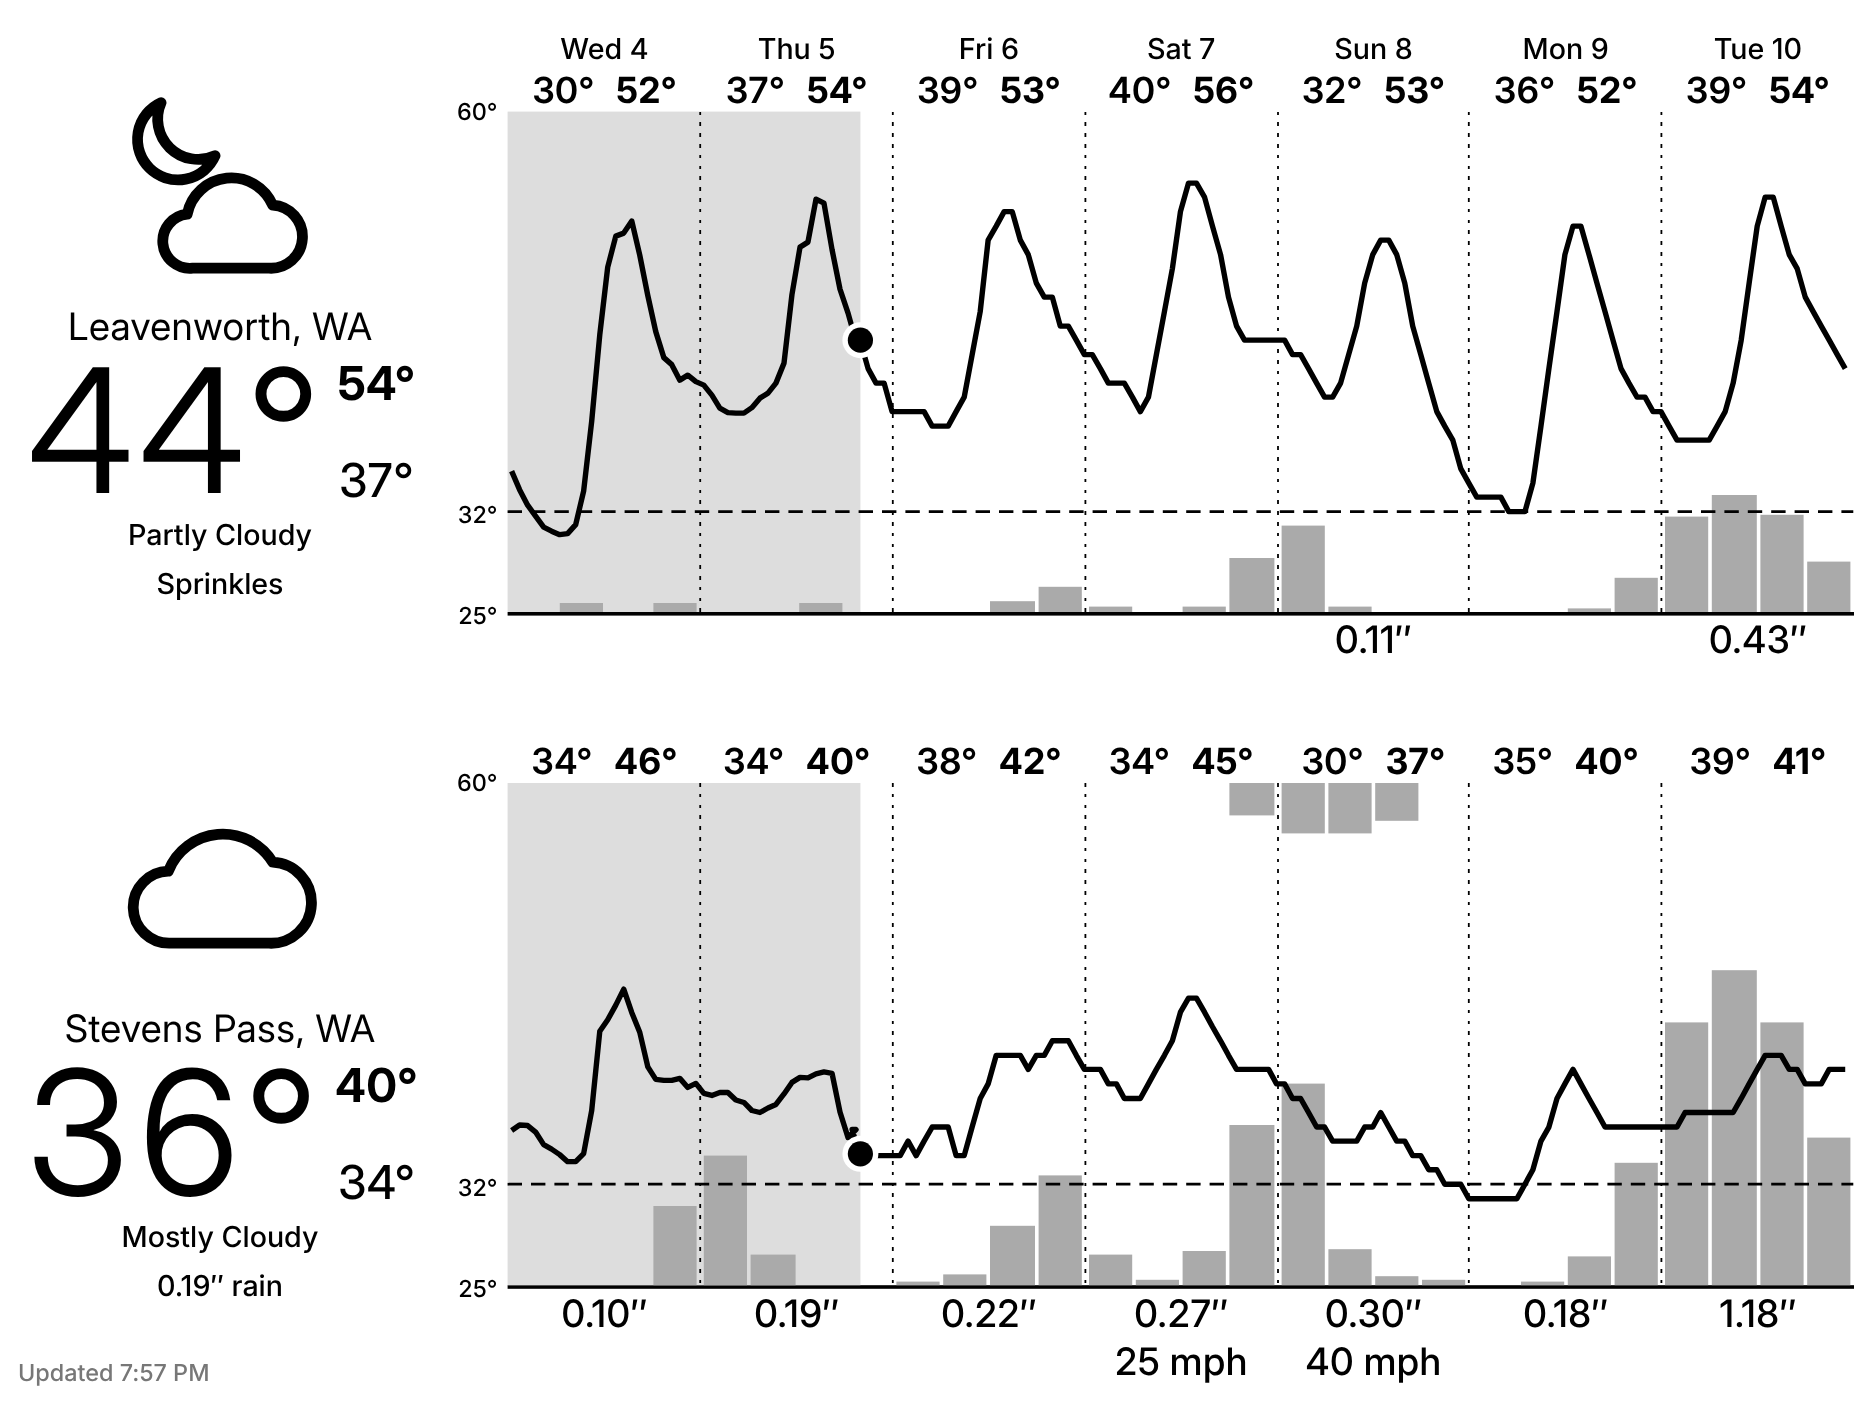
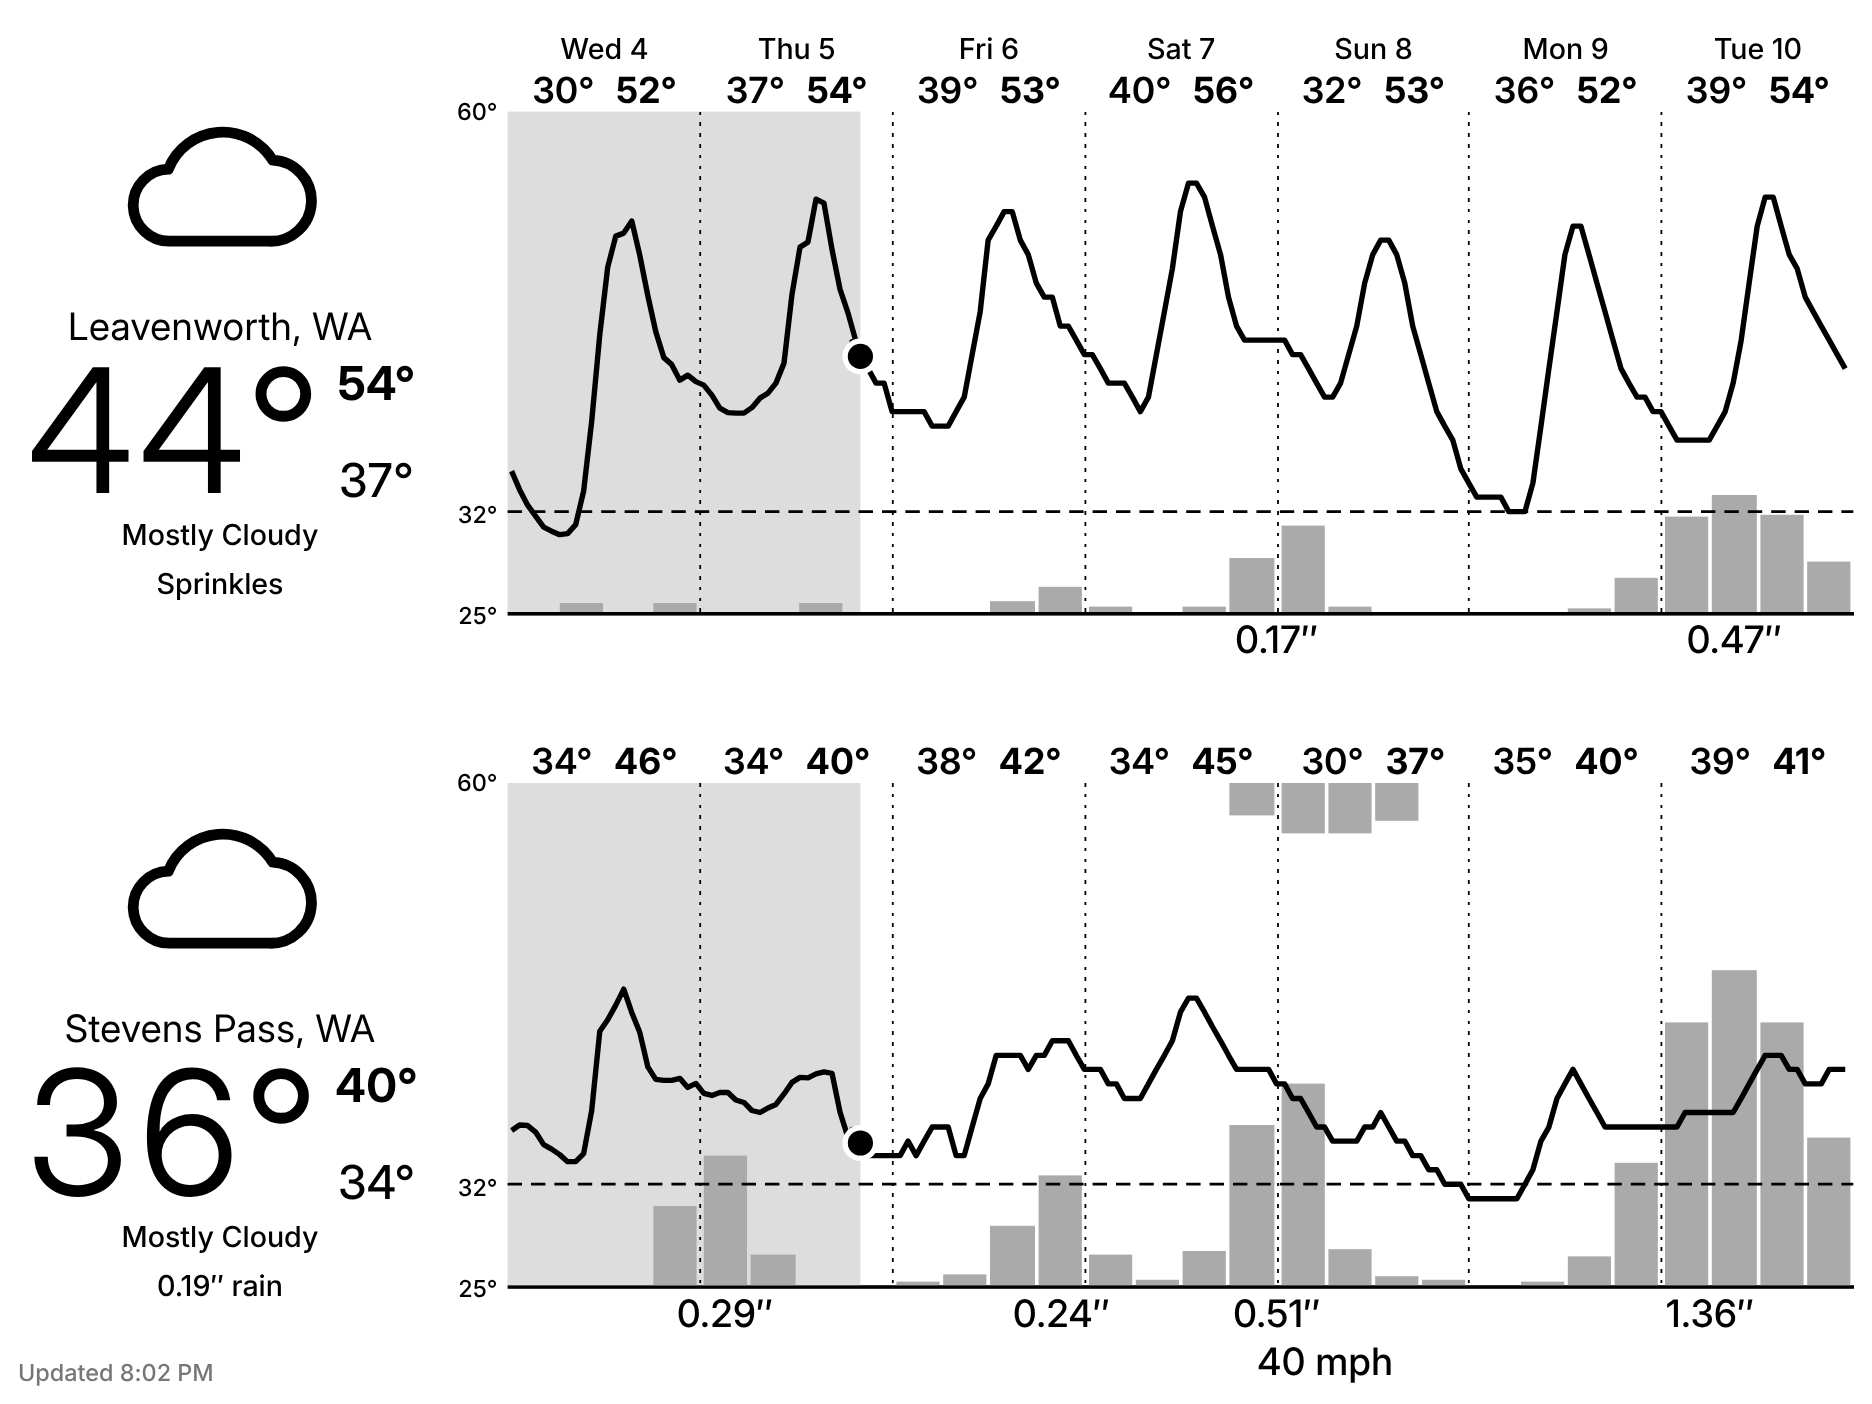
Label storms and windy spells instead of days
Runs of 6-hour blocks with at least 0.02" of rain (0.2" of snow) form a storm,
labeled with its totals and centered under it; runs of gusts of 25 mph or more
get their peak gust the same way.

Claude-Session: https://claude.ai/code/session_018zBtTfGxqR6ysBZYHYeVbJ

diff --git a/server/forecast/glance_test.go b/server/forecast/glance_test.go
@@ -331,9 +331,6 @@ func TestBuildChartRainAndSnow(t *testing.T) {
 		len(days[2].Amounts) != 0 {
 		t.Errorf("amounts = %q / %q / %q", days[0].Amounts, days[1].Amounts, days[2].Amounts)
 	}
-	if !reflect.DeepEqual(days[0].Totals, []string{"0.50″"}) || !reflect.DeepEqual(days[1].Totals, []string{"2.0″"}) {
-		t.Errorf("totals = %q / %q", days[0].Totals, days[1].Totals)
-	}
 	if c.TempMin != 20 || c.TempMax != 45 || c.FreezeY == nil || c.Label != "Snow 2.0″ · Rain 0.50″" {
 		t.Errorf("scale %d-%d freeze %v label %q", c.TempMin, c.TempMax, c.FreezeY, c.Label)
 	}
@@ -751,26 +748,6 @@ func TestSnowNeedsTwoStations(t *testing.T) {
 	}
 }
 
-func TestTotalsSkipLightAmounts(t *testing.T) {
-	loc, _ := time.LoadLocation("America/Los_Angeles")
-	now := time.Date(2026, 11, 2, 6, 0, 0, 0, loc)
-	grid := GridData{}
-	add := func(series *GridSeries, h int, v float64) {
-		series.Values = append(series.Values, struct {
-			ValidTime string   `json:"validTime"`
-			Value     *float64 `json:"value"`
-		}{time.Date(2026, 11, 2, h, 0, 0, 0, loc).Format(time.RFC3339) + "/PT6H", &v})
-	}
-	add(&grid.Properties.QuantitativePrecipitation, 0, 1.0)  // 0.04″: sprinkles
-	add(&grid.Properties.QuantitativePrecipitation, 24, 5.0) // 0.20″
-	days := make([]Day, 2)
-	buildChart(&grid, days, loc, now, "us", "auto", nil, nil, 0)
-	if len(days[0].Totals) != 0 || !reflect.DeepEqual(days[0].Amounts, []string{"Sprinkles"}) ||
-		!reflect.DeepEqual(days[1].Totals, []string{"0.20″"}) {
-		t.Errorf("days = %+v", days)
-	}
-}
-
 func TestWind(t *testing.T) {
 	loc, _ := time.LoadLocation("America/Los_Angeles")
 	now := time.Date(2026, 11, 2, 12, 0, 0, 0, loc)
@@ -801,5 +778,31 @@ func TestWind(t *testing.T) {
 	buildChart(&grid, days, loc, now, "si", "auto", nil, seen, 0)
 	if days[1].Gust != 64 {
 		t.Errorf("si gust = %d", days[1].Gust)
+	}
+}
+
+func TestStorms(t *testing.T) {
+	loc, _ := time.LoadLocation("America/Los_Angeles")
+	now := time.Date(2026, 11, 2, 0, 0, 0, 0, loc)
+	grid := GridData{}
+	add := func(series *GridSeries, h int, v float64) {
+		series.Values = append(series.Values, struct {
+			ValidTime string   `json:"validTime"`
+			Value     *float64 `json:"value"`
+		}{time.Date(2026, 11, 2, h, 0, 0, 0, loc).Format(time.RFC3339) + "/PT6H", &v})
+	}
+	q := &grid.Properties.QuantitativePrecipitation
+	add(q, 0, 0.2)   // 0.008″: too light to count
+	add(q, 6, 2.54)  // 0.10″ \ one storm, blocks 1-2 (6 AM-6 PM), centered at 25%: 0.30″
+	add(q, 12, 5.08) // 0.20″ /
+	add(q, 18, 0.25) // 0.01″: a break
+	add(q, 24, 1.0)  // 0.04″: a storm too light to label
+	add(q, 36, 7.62) // 0.30″ and snow: 3″
+	add(&grid.Properties.SnowfallAmount, 36, 76.2)
+	days := make([]Day, 2)
+	c := buildChart(&grid, days, loc, now, "us", "auto", nil, nil, 0)
+	want := []Storm{{X: 25, Labels: []string{"0.30″"}}, {X: 81.3, Labels: []string{"3.0″"}}}
+	if !reflect.DeepEqual(c.Storms, want) {
+		t.Errorf("storms = %+v", c.Storms)
 	}
 }

diff --git a/server/forecast/chart.go b/server/forecast/chart.go
@@ -122,6 +122,8 @@ type Chart struct {
 	TempMin   int       `json:"temp_min"`     // temperature at the bottom
 	BarKind   string    `json:"bar_kind"`     // "auto", "snow" or "precip"
 	Bars      []Bar     `json:"bars"`         // one per 6 hours
+	Storms    []Storm   `json:"storms"`       // snow/rain totals per storm, centered under it
+	Gusts     []Storm   `json:"gusts"`        // peak gust per windy spell, centered under it
 	Wind      []float64 `json:"wind"`         // per 6 hours: gust bar height, 0-100 % of the wind band (0 when not windy)
 	HasAmount bool      `json:"has_amount"`   // any snow/rain at all in the window
 	Days      int       `json:"days"`         // columns in the chart
@@ -317,13 +319,28 @@ func (c *Chart) fillBars(grid *GridData, days []Day, start, end, today, now time
 		if a := describeAmount(rn, roundAmount(rn, "rain", units), days[i].Rain, rainWord, "Sprinkles", sprinkles); a != "" {
 			days[i].Amounts = append(days[i].Amounts, a)
 		}
-		// The chart lists just the numbers, and nothing for amounts under the light limits.
-		days[i].Totals = []string{}
-		if days[i].Snow != "" && roundAmount(sn, "snow", units) >= flurries {
-			days[i].Totals = append(days[i].Totals, days[i].Snow)
+	}
+
+	// Storms: runs of wet blocks, each labeled with its totals.
+	minSnow, minRain := stormMinSnowIn, stormMinRainIn
+	if units == "si" {
+		minSnow, minRain = stormMinSnowCm, stormMinRainMm
+	}
+	c.Storms = []Storm{}
+	for _, r := range runs(len(buckets), func(k int) bool { return buckets[k].snow >= minSnow || buckets[k].rain >= minRain }) {
+		sn, rn := 0.0, 0.0
+		for _, b := range buckets[r[0] : r[1]+1] {
+			sn, rn = sn+b.snow, rn+b.rain
 		}
-		if days[i].Rain != "" && roundAmount(rn, "rain", units) >= sprinkles {
-			days[i].Totals = append(days[i].Totals, days[i].Rain)
+		s := Storm{X: runCenter(r, len(buckets)), Labels: []string{}}
+		if roundAmount(sn, "snow", units) >= flurries {
+			s.Labels = append(s.Labels, formatAmount(sn, "snow", units))
+		}
+		if roundAmount(rn, "rain", units) >= sprinkles {
+			s.Labels = append(s.Labels, formatAmount(rn, "rain", units))
+		}
+		if len(s.Labels) > 0 {
+			c.Storms = append(c.Storms, s)
 		}
 	}
 

diff --git a/server/forecast/wind.go b/server/forecast/wind.go
@@ -1,6 +1,7 @@
 package forecast
 
 import (
+	"fmt"
 	"math"
 	"time"
 )
@@ -20,6 +21,7 @@ const (
 func (c *Chart) fillWind(grid *GridData, days []Day, start, end, now time.Time, units string, seen *observed) {
 	ivs := grid.Properties.WindGust.intervals()
 	perDay := 24 / barHours
+	gusts := []float64{}
 	for k, t := 0, start; t.Before(end); k, t = k+1, t.Add(barHours*time.Hour) {
 		next := t.Add(barHours * time.Hour)
 		mph := 0.0
@@ -36,6 +38,7 @@ func (c *Chart) fillWind(grid *GridData, days []Day, start, end, now time.Time, 
 			h = math.Min(100, math.Round(1000*mph/fullGustMph)/10)
 		}
 		c.Wind = append(c.Wind, h)
+		gusts = append(gusts, mph)
 		if d := k / perDay; d < len(days) && mph >= windyGustMph {
 			g := int(math.Round(mph))
 			if units == "si" {
@@ -43,5 +46,19 @@ func (c *Chart) fillWind(grid *GridData, days []Day, start, end, now time.Time, 
 			}
 			days[d].Gust = max(days[d].Gust, g)
 		}
+	}
+
+	// One label per windy spell: its peak gust, centered under it.
+	c.Gusts = []Storm{}
+	for _, r := range runs(len(gusts), func(k int) bool { return gusts[k] >= windyGustMph }) {
+		peak := 0.0
+		for _, g := range gusts[r[0] : r[1]+1] {
+			peak = math.Max(peak, g)
+		}
+		label := fmt.Sprintf("%.0f mph", peak)
+		if units == "si" {
+			label = fmt.Sprintf("%.0f km/h", peak*kmhPerMph)
+		}
+		c.Gusts = append(c.Gusts, Storm{X: runCenter(r, len(gusts)), Labels: []string{label}})
 	}
 }

diff --git a/server/forecast/storms.go b/server/forecast/storms.go
@@ -1,0 +1,40 @@
+package forecast
+
+import "math"
+
+// Storm is one label under the chart, for a run of wet (or windy) 6-hour blocks: its totals,
+// e.g. ["4.0″", "0.30″"] for snow then rain, centered at X (0-100 % across the plot).
+type Storm struct {
+	X      float64  `json:"x"`
+	Labels []string `json:"labels"`
+}
+
+// A block counts toward a storm when it gets at least this much. Lighter blocks between two wet
+// ones split them into separate storms, so a week of drizzle with two real storms reads as two.
+const (
+	stormMinRainIn, stormMinSnowIn = 0.02, 0.2
+	stormMinRainMm, stormMinSnowCm = 0.5, 0.5
+)
+
+// runs returns the [first, last] index of each run of consecutive blocks for which in is true.
+func runs(n int, in func(int) bool) [][2]int {
+	out := [][2]int{}
+	for k := 0; k < n; k++ {
+		if !in(k) {
+			continue
+		}
+		start := k
+		for k+1 < n && in(k+1) {
+			k++
+		}
+		out = append(out, [2]int{start, k})
+	}
+	return out
+}
+
+// runCenter is the middle of a run as a percentage across n blocks, kept far enough from the
+// edges that a centered label fits.
+func runCenter(r [2]int, n int) float64 {
+	x := float64(r[0]+r[1]+1) / 2 / float64(n) * 100
+	return math.Round(math.Min(96, math.Max(4, x))*10) / 10
+}

diff --git a/server/forecast/glance.go b/server/forecast/glance.go
@@ -58,7 +58,6 @@ type Day struct {
 	Rain      string   `json:"rain"`    // forecast rain for the day, e.g. "0.13″", or ""
 	Amounts   []string `json:"amounts"` // the day's amounts in words, e.g. ["1.2″ snow", "Sprinkles"]
 	Gust      int      `json:"gust"`    // the day's peak gust (mph or km/h) when windy, else 0
-	Totals    []string `json:"totals"`  // what the chart lists under the day: amounts past the light limits, e.g. ["1.2″", "0.13″"]
 }
 
 type Scale struct {
